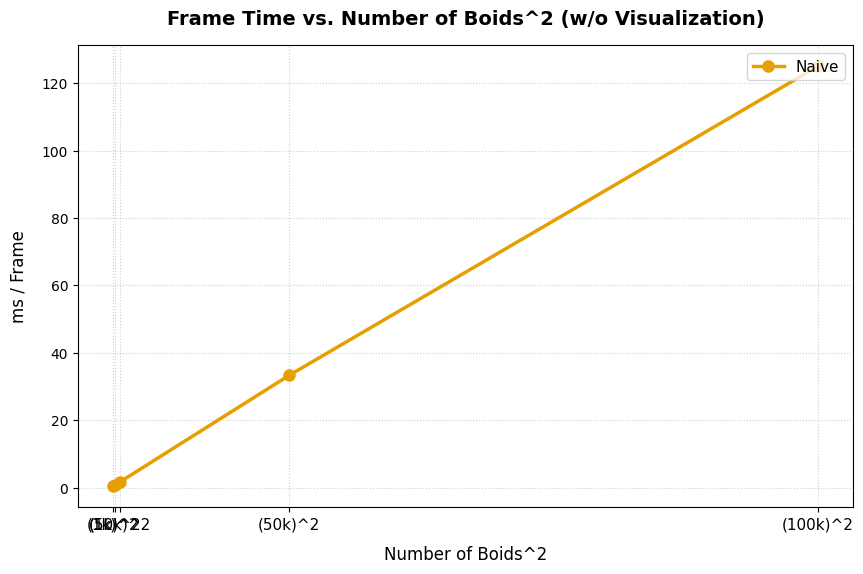
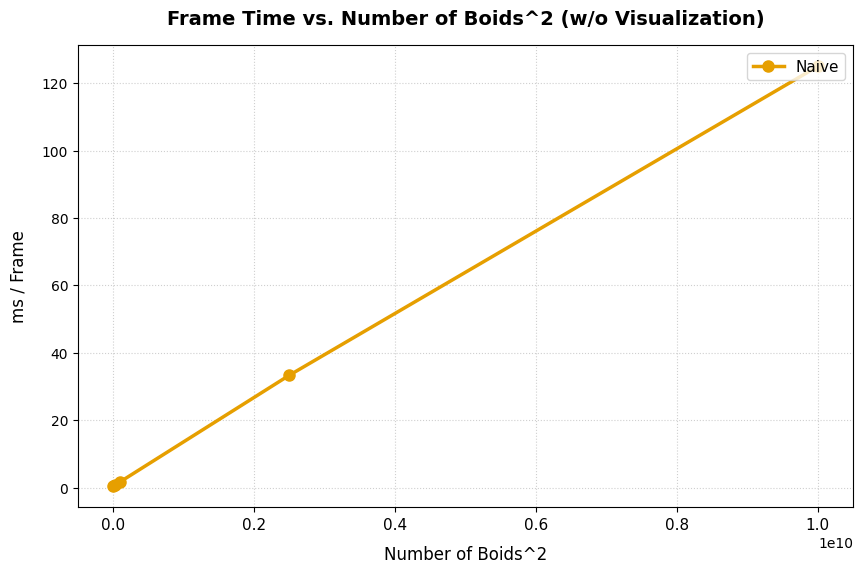
Update readme

diff --git a/src/main.cpp b/src/main.cpp
@@ -19,7 +19,7 @@
 #include <cuda_gl_interop.h>
 #include <glm/gtc/matrix_transform.hpp>
 
-#define AUDIO_VISUALIZE 1
+#define AUDIO_VISUALIZE 0
 
 #include "audioEngine.h"
 #define MINIAUDIO_IMPLEMENTATION
@@ -39,7 +39,7 @@
 #define COHERENT_GRID 1
 
 // LOOK-1.2 - change this to adjust particle count in the simulation
-const int N_FOR_VIS = 25000;
+const int N_FOR_VIS = 500000;
 const float DT = 0.2f;
 
 #if AUDIO_VISUALIZE

diff --git a/README.md b/README.md
@@ -94,6 +94,14 @@ For the most part, we see that there is little impact of block size on the perfo
 
 For this project I added a preprocessor definition for "DYNAMIC_GRID" which when enabled, will determine how many neighbor cells to check at runtime based on the boid rule distances and the current cell widths. It is compatible with both the scattered and coherent uniform grids, and is automatically enabled when using the audio visualizer mode via the "AUDIO_VISUALIZE" preprocessor definition
 
+What this mode does is it will adjust the cells it searches based on the grid cell size. This means if the grid cell has a size that is 0.5 times the max radius for neighbor searches, we would have to search 2 cells outwards in each direction to cover an entire radii.
+
+For a uniform grid with coherent accesses and 500k boids, the FPS vs. cell size with respect to the boid rule radii is as follows:
+
+![FPS vs. Cell Size](images/FPSVsCellSize.png)
+
+Here we see that there is a maximum when the cell size is equal to the max radii of the boid rules. This is likely the case since having smaller cells means that you have to search more individual cells for boids, but once the cell size gets too large, while you search fewer cells, those cells have more boids into them to compare against. 
+
 ### Audio Visualization
 
 As a fun extension, I made my boids simulation into an audio visualizer. This can be enabled via the preprocessor def "AUDIO_VISUALIZE" in main.cpp. The way this works is the audio data is processed into frequencies via the cuFFT library, and then used to scale the various boid rule strengths as well as max boid speed.
